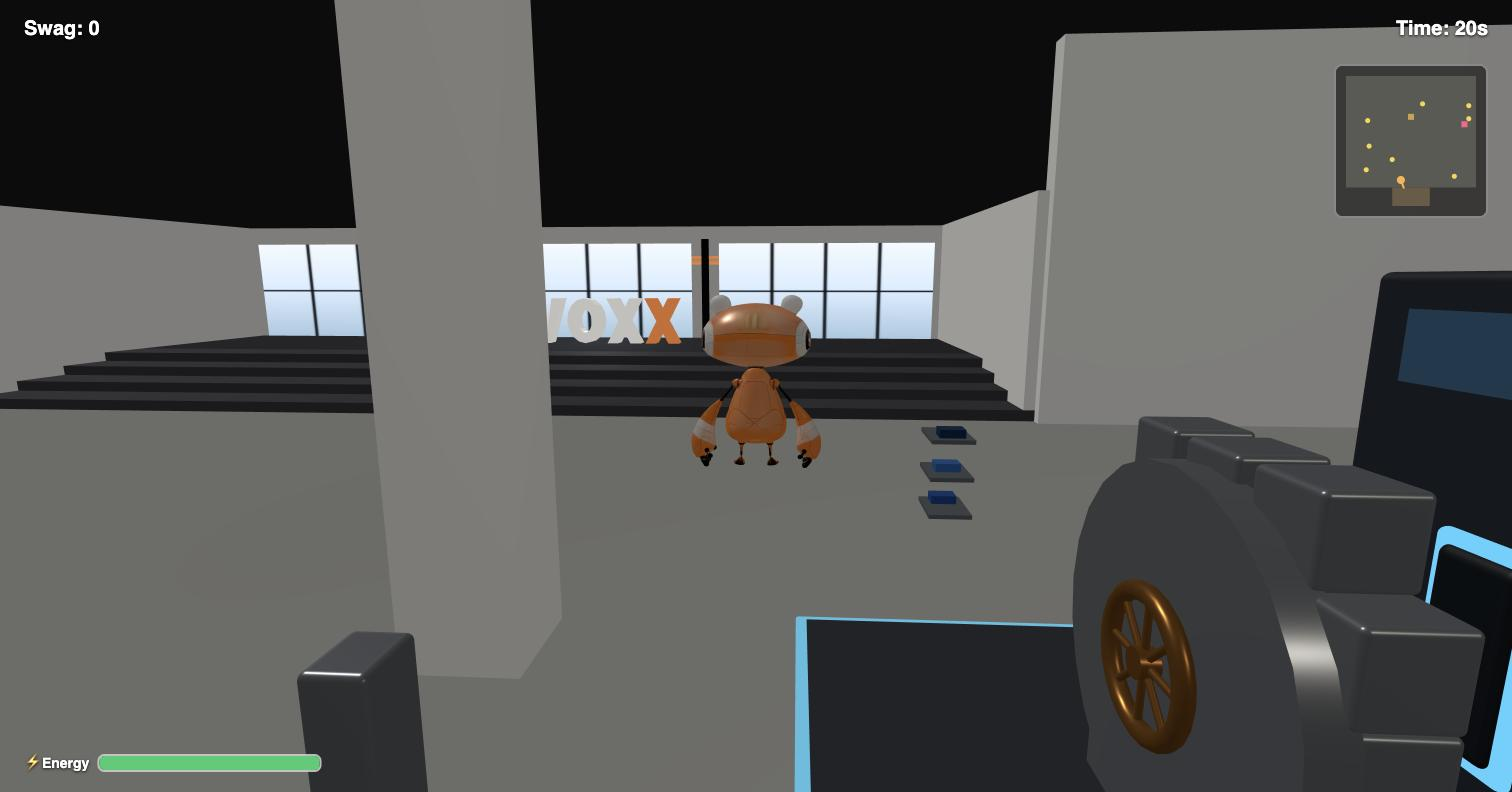
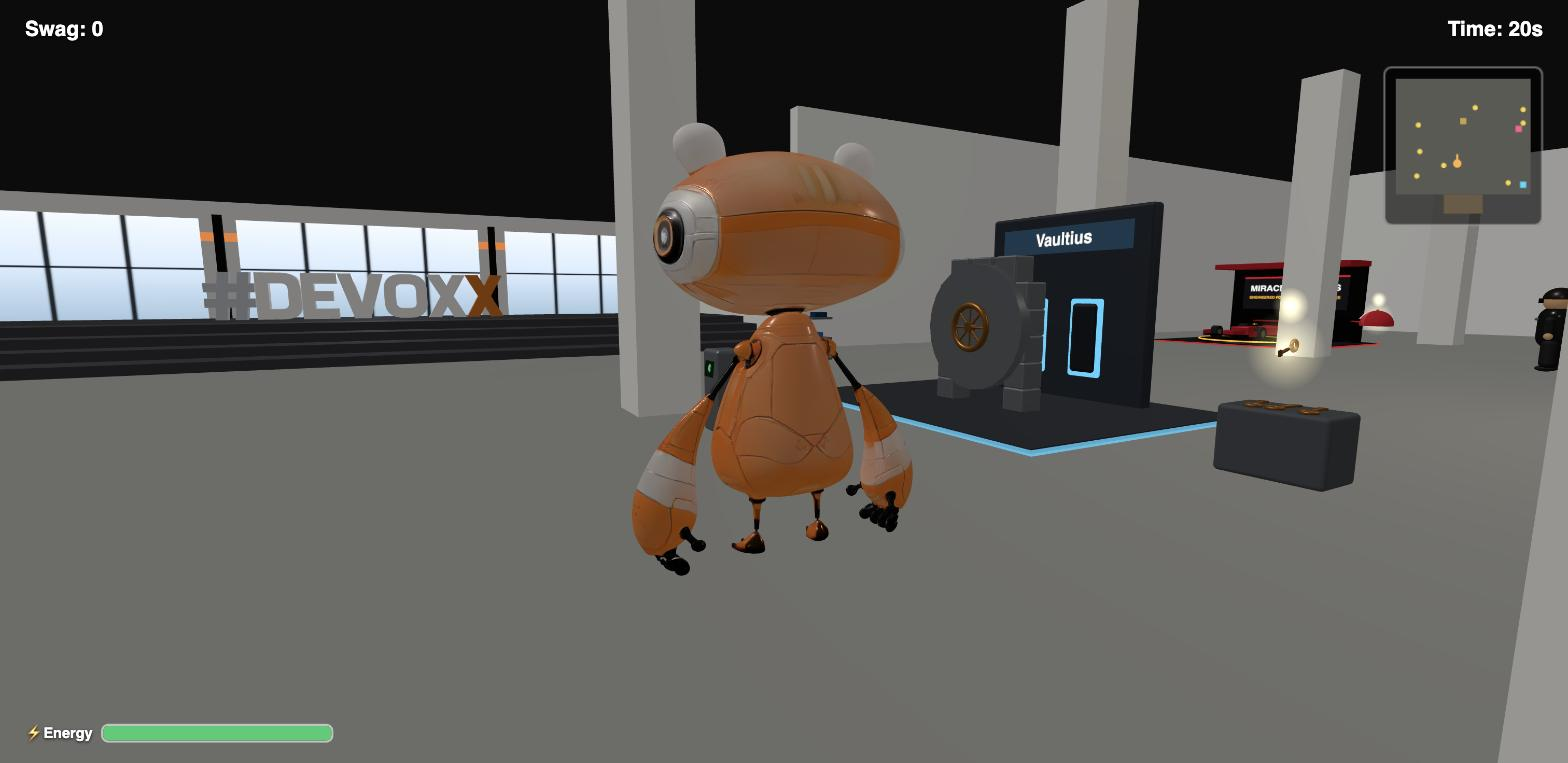
Retake the README screenshots
All three were stale: level 2 predates the screen's event branding and
the decluttered corridor, level 1 had the camera jammed into a booth so
little of the hall read, and level 3 was shot at t=0 with an empty
buffet and nobody in the room.

Recomposed from live play rather than reshot from the old angles, and
the captions rewritten to name what is actually in each frame — the old
ones described things that are no longer in shot.

diff --git a/README.md b/README.md
@@ -18,7 +18,7 @@ breakdown and a combined total for the whole day.
 
 ### 1. Voxxy — Swag Run
 
-![Level 1, the exhibition hall: Voxxy standing in front of the DEVOXX letters on the foyer landing, with sponsor booths and swag pickups around the hall](docs/screenshots/level1-swag-run.jpg)
+![Level 1, the exhibition hall: Voxxy out on the floor beside the Vaultius booth and its vault door, with the MIRACLE SYSTEMS stand further along, the DEVOXX letters on the foyer landing behind him and an attendee crossing at the right](docs/screenshots/level1-swag-run.jpg)
 
 *Ground floor, the exhibition hall.* Voxxy is the quick, light one. Grab as much sponsor swag as
 you can before the clock runs out, weaving between booths and the wandering crowd — an attendee
@@ -26,7 +26,7 @@ who walks into you knocks the last thing you picked up straight out of your hand
 
 ### 2. Droid — Knowledge Run
 
-![Level 2, auditorium 4: Droid in the aisle between raked cinema seating, with the DEVOXX letters and a live-coding screen on stage and the red room-4 sign on the wall](docs/screenshots/level2-knowledge-run.jpg)
+![Level 2, auditorium 4: Droid in the aisle between raked cinema seating, with the DEVOXX letters and the branded live-coding screen on stage, quotes glowing along the rows, and an attendee closing in from the right](docs/screenshots/level2-knowledge-run.jpg)
 
 *First floor, the auditorium level.* Droid is tall and deliberate. Collect one-liners of
 conference wisdom scattered down a 180-metre corridor and up through auditorium 4's seating,
@@ -35,7 +35,7 @@ free. A bump topples Droid, and he is slow to get back up.
 
 ### 3. Biggy — Lunch Rush
 
-![Level 3, the same hall at lunchtime: Biggy, round and heavy, standing between two buffet tables with the JAVA COFFEE machine beside him](docs/screenshots/level3-lunch-rush.jpg)
+![Level 3, the same hall at lunchtime: Biggy, round and heavy, standing between two buffet tables with sandwiches laid out on them, the JAVA COFFEE machine off to his left](docs/screenshots/level3-lunch-rush.jpg)
 
 *Ground floor again, redressed for lunchtime.* Biggy is heavy and slow, and every sandwich he eats
 makes him permanently bigger, slower and harder to turn. Two things can end the run: his hunger
